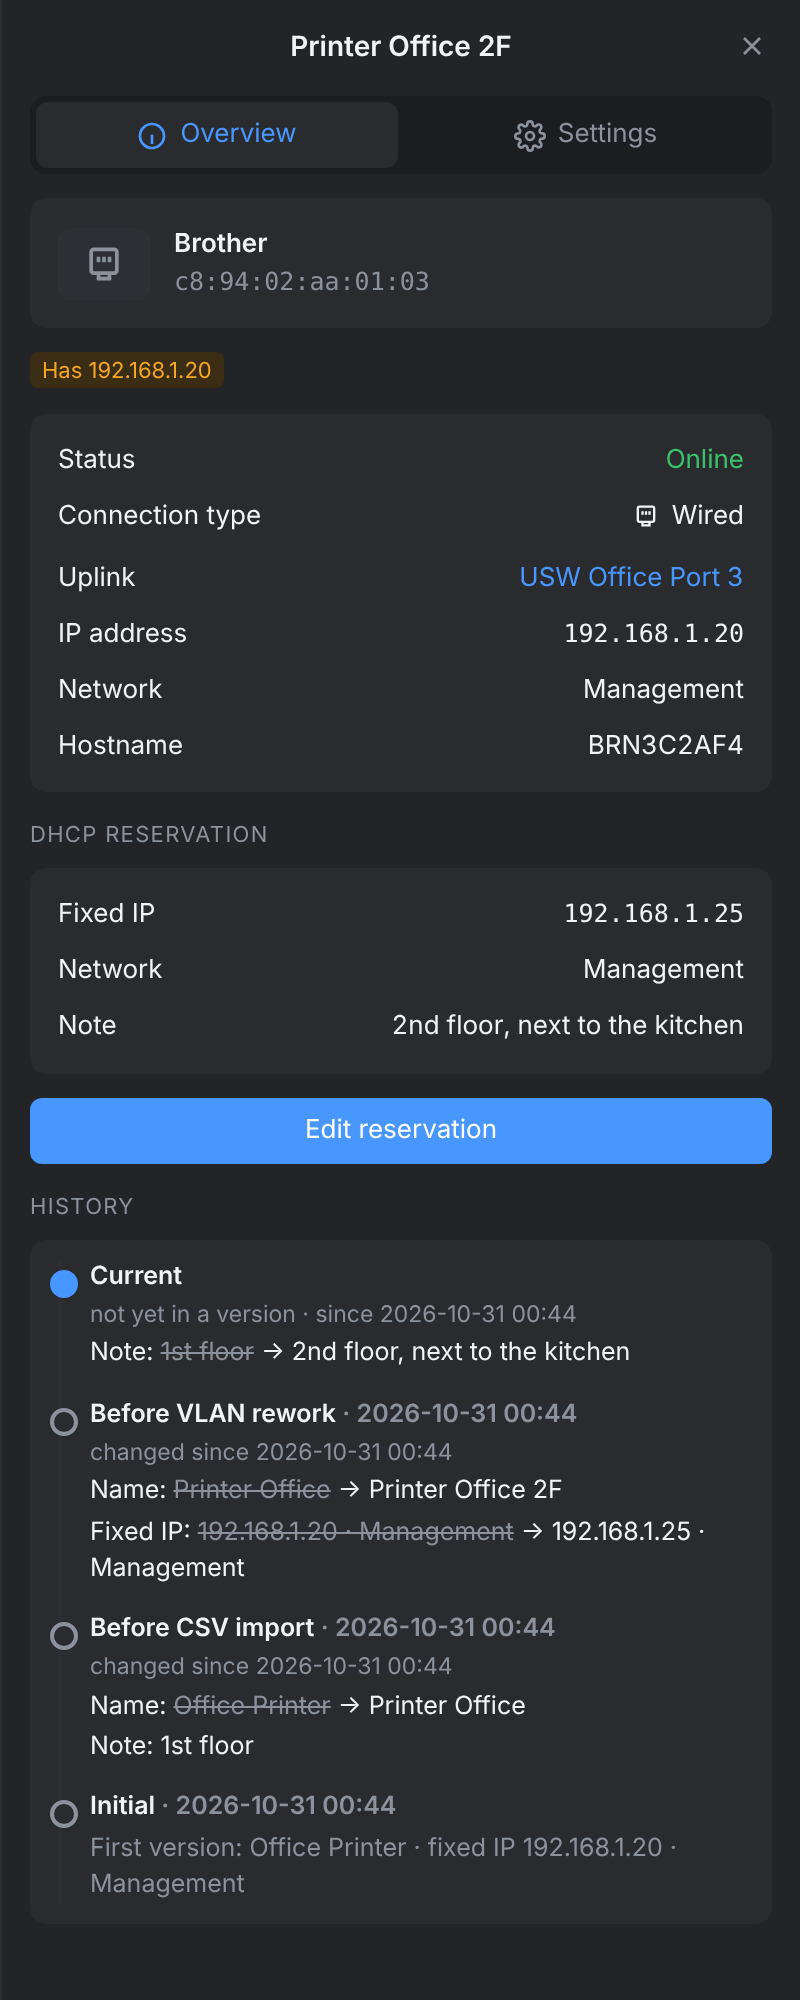
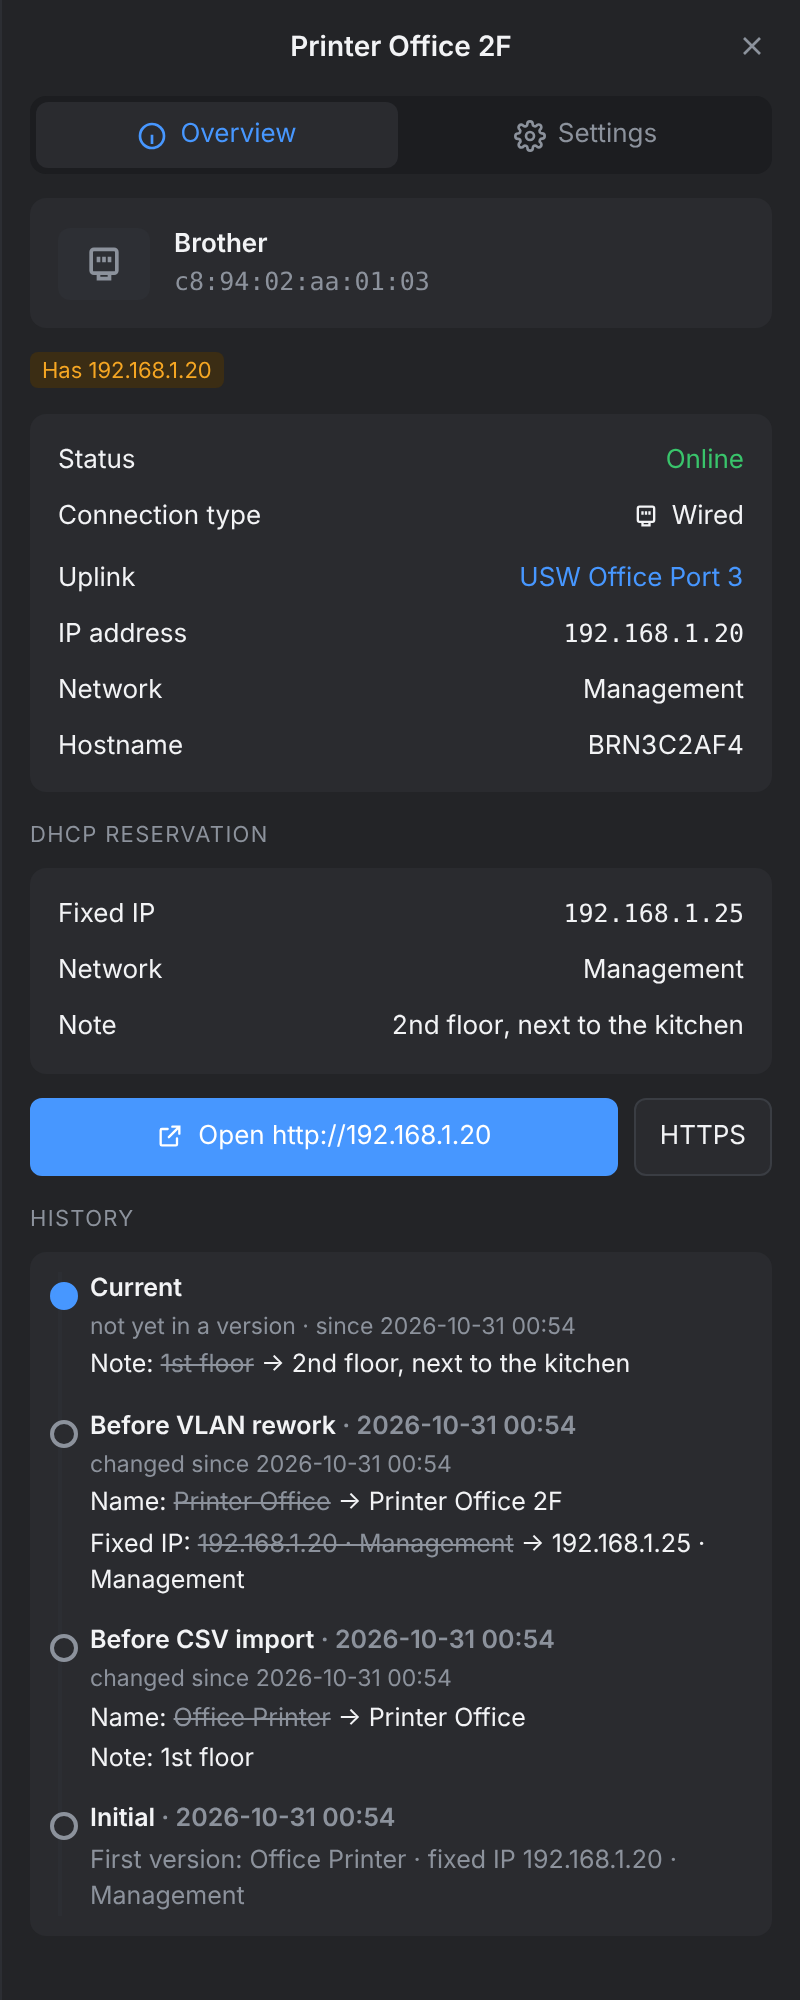
1.9.8: open device web UI from the detail panel
Claude-Session: https://claude.ai/code/session_01Qq55cKasRq5dm39rxnrsJV

Changed region(s): [[0.0312, 0.527, 0.9688, 0.961], [0.625, 0.899, 0.7812, 0.93], [0.5312, 0.899, 0.5938, 0.93]]

diff --git a/dhcp_reservations/app/static/index.html b/dhcp_reservations/app/static/index.html
@@ -213,6 +213,10 @@ dialog#dlgSub{border:1px solid var(--line-strong);border-radius:10px;padding:0;b
 .hint a{color:var(--accent)}
 .imp-foot .notes{display:flex;flex-direction:column;gap:3px;min-width:0}
 .vnote{display:flex;align-items:center;gap:6px}
+.openrow{display:flex;gap:8px}
+.openrow .btn{display:inline-flex;align-items:center;justify-content:center;gap:7px;text-decoration:none;padding:9px 12px}
+.openrow .btn:not(.primary){color:var(--fg)}
+.openrow .btn.primary{flex:1;min-width:0;overflow:hidden;text-overflow:ellipsis}
 .hist{padding:10px 14px}
 .hist-list{list-style:none;margin:0;padding:0 0 0 14px;border-left:2px solid var(--line)}
 .hist-list li{position:relative;padding:0 0 12px}
@@ -802,6 +806,8 @@ function openPanel(c, tab) {
   renderTable();
 }
 function closePanel() { state.sel = null; $("#detail").hidden = true; renderTable(); }
+// address for the "open in browser" button: current IP when online, otherwise the fixed IP, otherwise the last known IP
+const webIp = c => c.conn === "teleport" ? "" : (c.online && c.ip) || (c.use_fixedip && c.fixed_ip) || c.ip || "";
 function renderInfo() {
   const c = state.sel; if (!c) return;
   const n = net(c.network_id), rn = net(c._resNet);
@@ -830,10 +836,10 @@ function renderInfo() {
       ${kv("Local DNS", c.local_dns_record_enabled ? esc(c.local_dns_record) : "")}
       ${kv("Note", esc(c.note))}
     </dl></div>
-    ${c.mac ? `<button class="btn primary" type="button" id="btnGoEdit">${c.use_fixedip ? "Edit reservation" : "Reserve fixed IP"}</button>` : `<p class="hint">Teleport clients get their address from the VPN and cannot have a DHCP reservation.</p>`}
+    ${webIp(c) ? `<div class="openrow"><a class="btn primary" href="http://${esc(webIp(c))}/" target="_blank" rel="noopener noreferrer" title="Open the device's web interface in a new tab"><svg width="14" height="14" viewBox="0 0 24 24" fill="none" stroke="currentColor" stroke-width="2" stroke-linecap="round" aria-hidden="true"><path d="M14 4h6v6M20 4l-9 9M18 14v5a1 1 0 0 1-1 1H5a1 1 0 0 1-1-1V7a1 1 0 0 1 1-1h5"/></svg>Open http://${esc(webIp(c))}</a><a class="btn" href="https://${esc(webIp(c))}/" target="_blank" rel="noopener noreferrer" title="Open with HTTPS">HTTPS</a></div>${!c.online ? `<p class="hint">The device is offline – the page may not load.</p>` : ""}` : ""}
+    ${!c.mac ? `<p class="hint">Teleport clients get their address from the VPN and cannot have a DHCP reservation.</p>` : ""}
     ${c.mac ? `<div class="sec-title">History</div><div class="card hist" id="histBox"><span class="muted"><span class="spin"></span> Loading …</span></div>` : ""}`;
   if (c.mac) loadHistory(c);
-  $("#btnGoEdit")?.addEventListener("click", () => { if (!c.use_fixedip) { $("#fFixed").checked = true; syncToggles(); onNetChange(); } setTab("edit"); $("#fIp").focus(); });
   $("#tabEdit").hidden = !c.mac;
 }
 

diff --git a/README.md b/README.md
@@ -59,7 +59,7 @@ versions you can compare and restore.
     <td valign="top"><img src="docs/screenshots/changed-since.png" alt="Changed since filter"><br><b>Changed since …</b> – sidebar filter for new or changed devices.</td>
   </tr>
   <tr>
-    <td valign="top"><img src="docs/screenshots/history.png" alt="Device history"><br><b>History</b> – per device: what changed, and in which version.</td>
+    <td valign="top"><img src="docs/screenshots/history.png" alt="Device history"><br><b>Detail panel</b> – open the device in the browser, and its <b>history</b>: what changed, in which version.</td>
     <td valign="top"></td>
   </tr>
 </table>

diff --git a/dhcp_reservations/CHANGELOG.md b/dhcp_reservations/CHANGELOG.md
@@ -1,6 +1,9 @@
 # Changelog
 
-## 1.9.7
+## 1.9.8 – 2026-10-31
+- Detail panel: the *Edit reservation* button is replaced by **Open `http://<IP>`** (plus *HTTPS*), which opens the device's web interface in a new tab. It uses the current IP when the device is online, otherwise the fixed IP. Editing stays on the *Settings* tab.
+
+## 1.9.7 – 2026-10-31
 - **History** in the detail panel: for each device a timeline of what changed and in which version (name, note, fixed IP + network, AP lock, local DNS; IP and network moves in grey), plus the changes made since the latest version.
 
 ## 1.9.6
